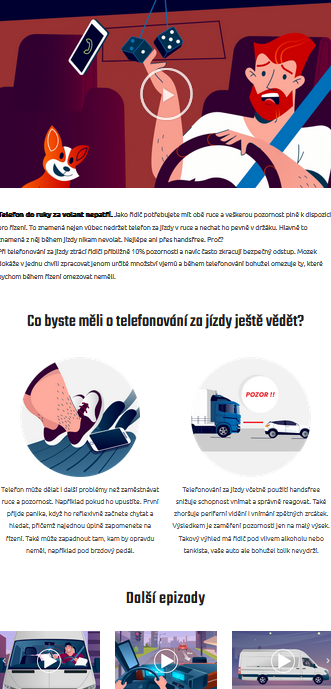
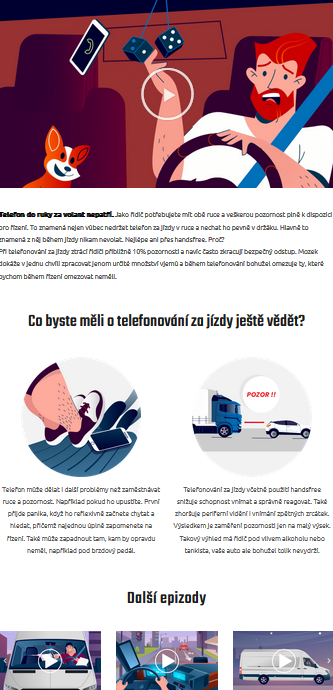
padding obrázků

diff --git a/style.css b/style.css
@@ -282,12 +282,14 @@ h1 {
     "Segoe UI", Roboto, Oxygen, Ubuntu, Cantarell, "Open Sans", "Helvetica Neue",
     sans-serif;
 }
-#page2 .CV button .active {
+#page2 .CV button .active,
+#page2 .contact button .active {
   color: #1c3040;
   background-color: #f1d415;
   font-size: 30px;
 }
-#page2 .CV button:hover {
+#page2 .CV button:hover,
+#page2 .contact button:hover {
   color: #1c3040;
   background-color: #f1d415;
   transition: background-color 0.3s, color 0.3s;
@@ -346,6 +348,7 @@ h1 {
 
 #page3 .obrazky {
   grid-area: obrazky;
+  padding: 0;
 }
 #ukazkypage h2,
 #page3 h3,
@@ -564,4 +567,15 @@ iframe {
   color: #f1d415;
   background-color: #1c3040;
   transition: background-color 0.3s, color 0.3s;
+}
+#page5 .video,
+#page5 .obrazek1,
+#page5 .obrazek2,
+#page5 .obrazek3,
+#page4 .obrazek1,
+#page4 .obrazek2,
+#page4 .obrazek3,
+#page3 .obrazky {
+  background-color: unset;
+  padding: 0;
 }
